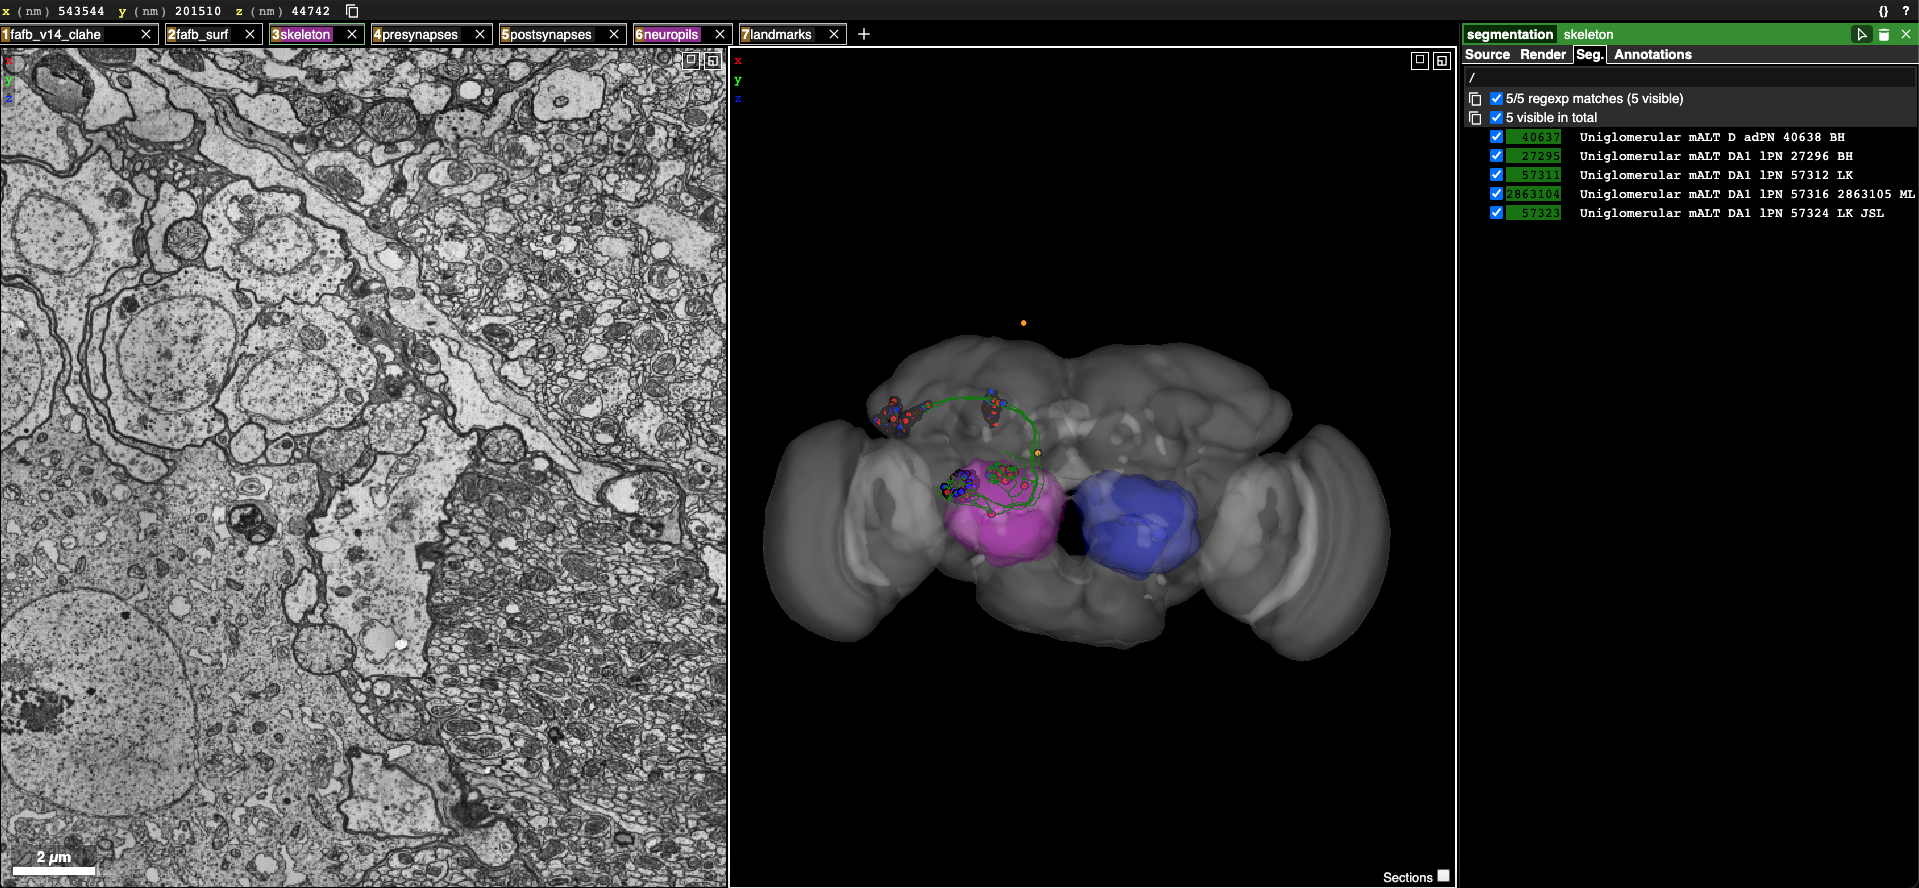
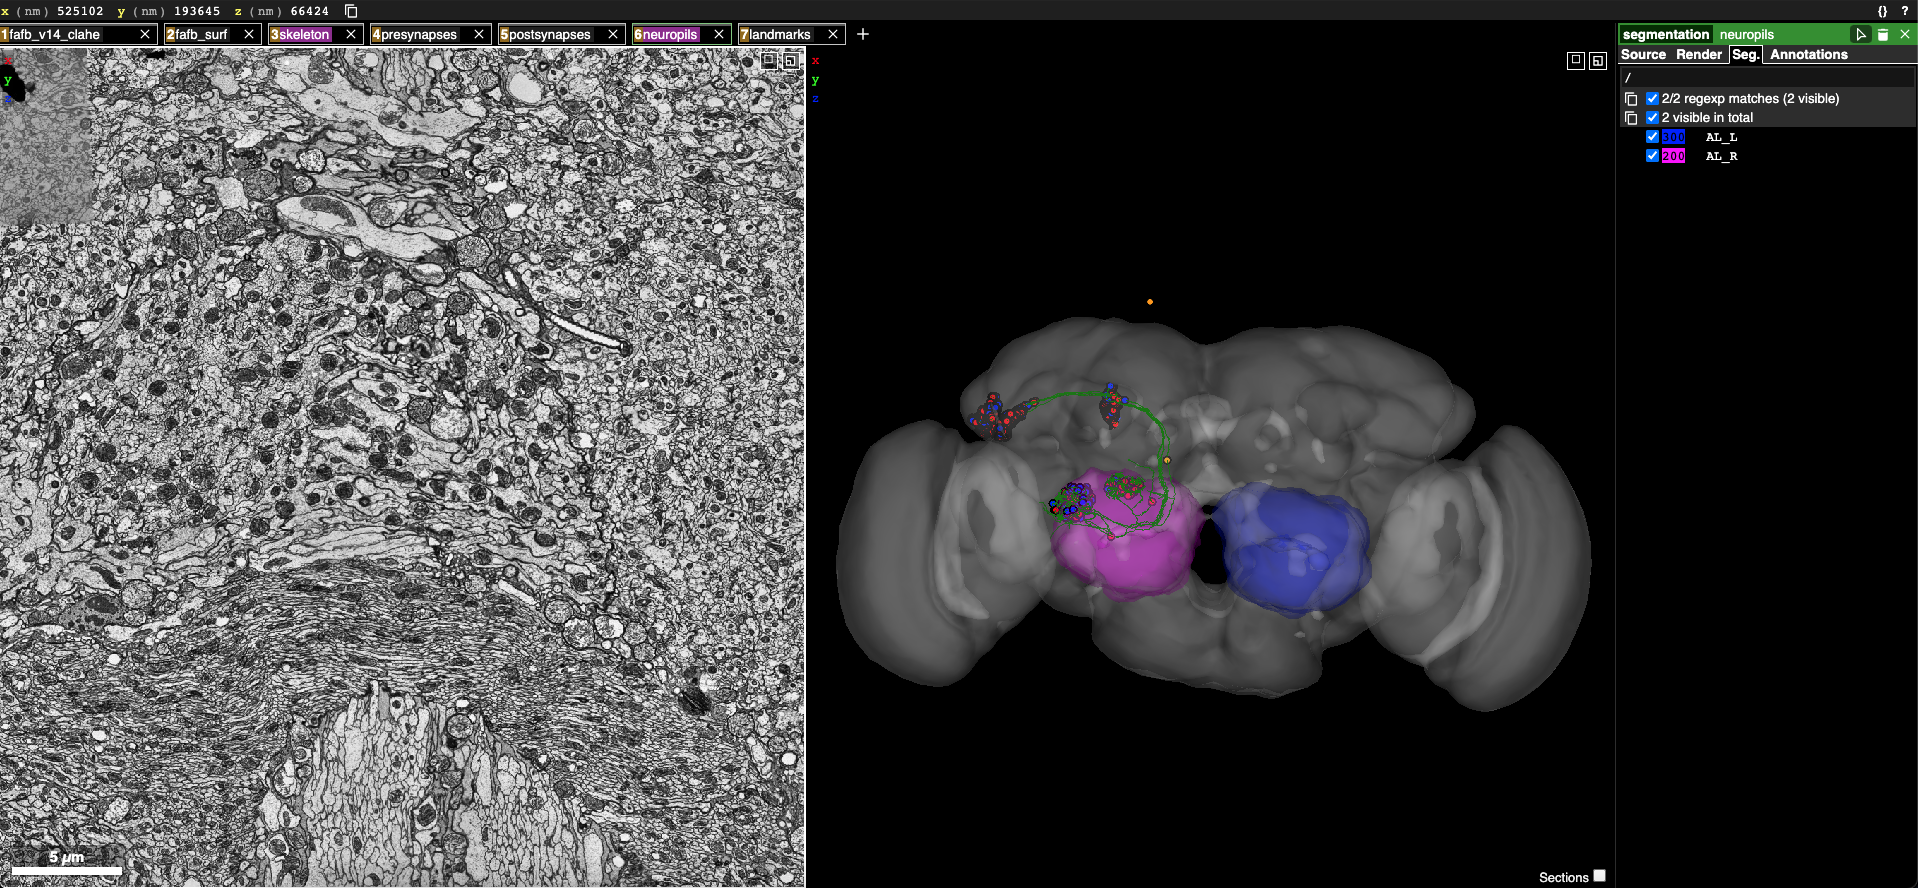
updated for flywire tutorial

diff --git a/docs/source/installation.rst b/docs/source/installation.rst
@@ -3,11 +3,11 @@ Install Pyroglancer
 
 There are two ways to install Pyroglancer.
 
-#. You can get the stable version from `pypi` like below. On the command line, enter::
+#. The stable version from `pypi` like below::
 
     pip3 install pyroglancer
 
-#. You can get the latest development version like below. On the command line, enter::
+#. The latest development version from `GitHub` like below::
 
     pip3 install git+git://github.com/SridharJagannathan/pyroglancer@master
 

diff --git a/docs/source/index.rst b/docs/source/index.rst
@@ -8,10 +8,11 @@ Pyroglancer
    installation
 
 .. toctree::
-   :maxdepth: 1
+   :maxdepth: 0
    :caption: Tutorials
    
    tutorials/local_neuroglancer.ipynb
+   tutorials/examples_flywirecoplotting.ipynb
 
 .. toctree::
    :maxdepth: 2
